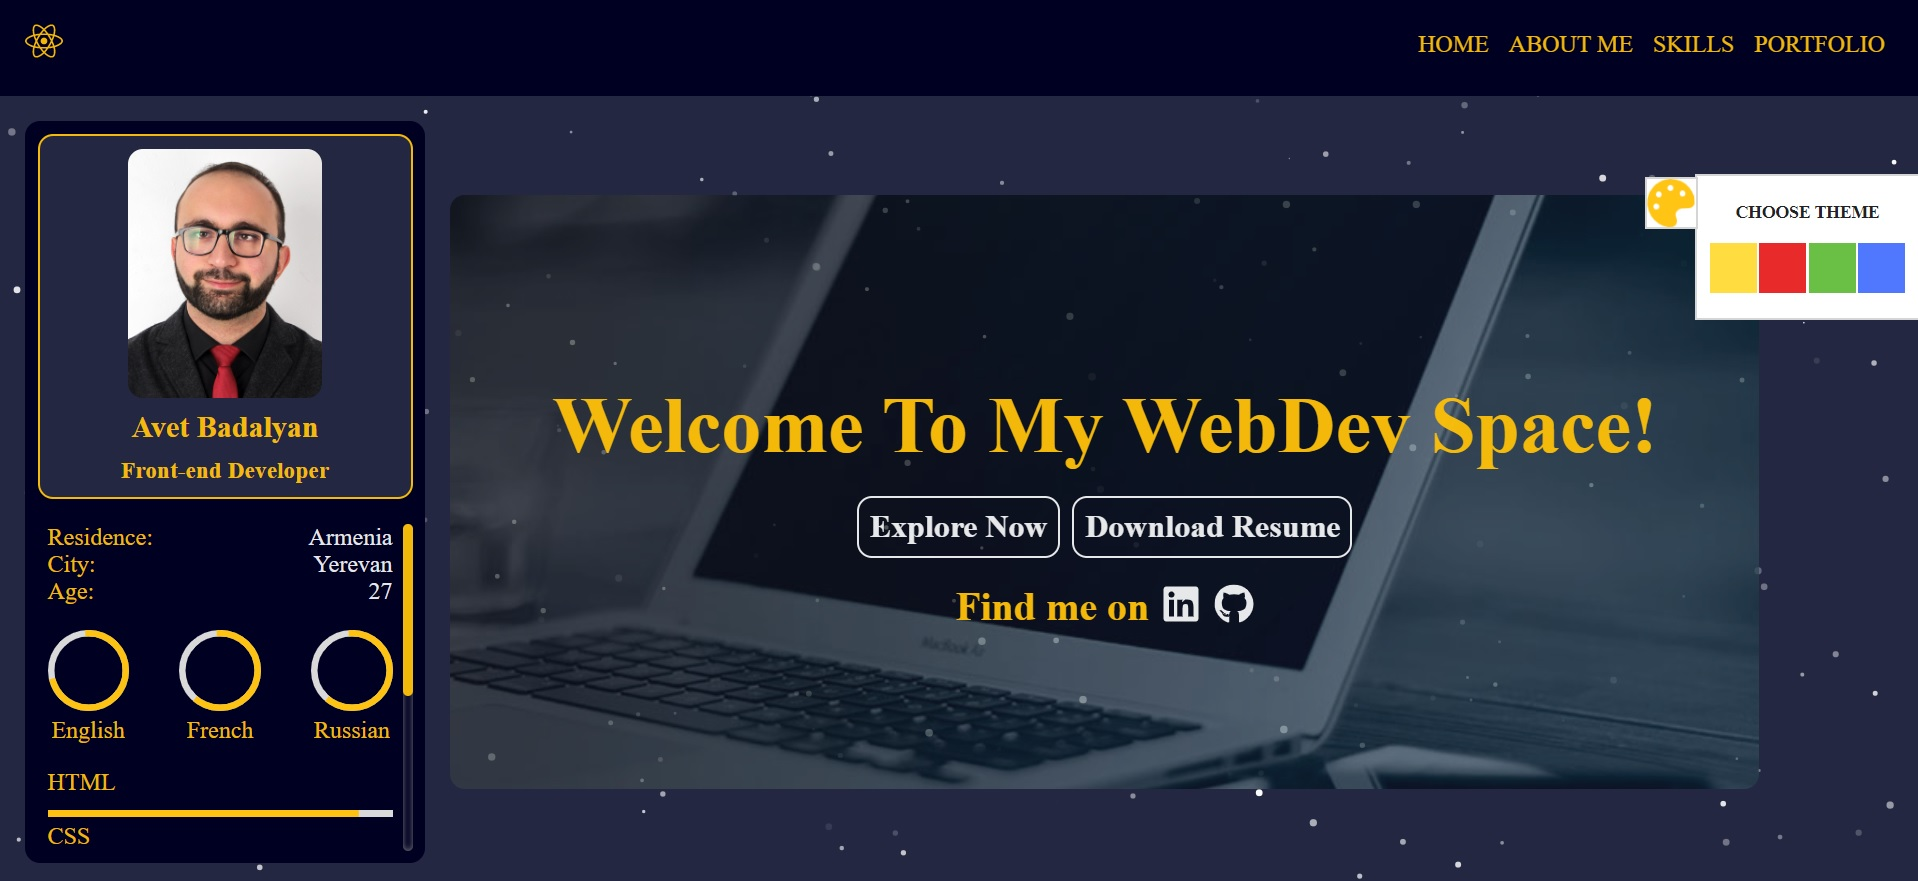
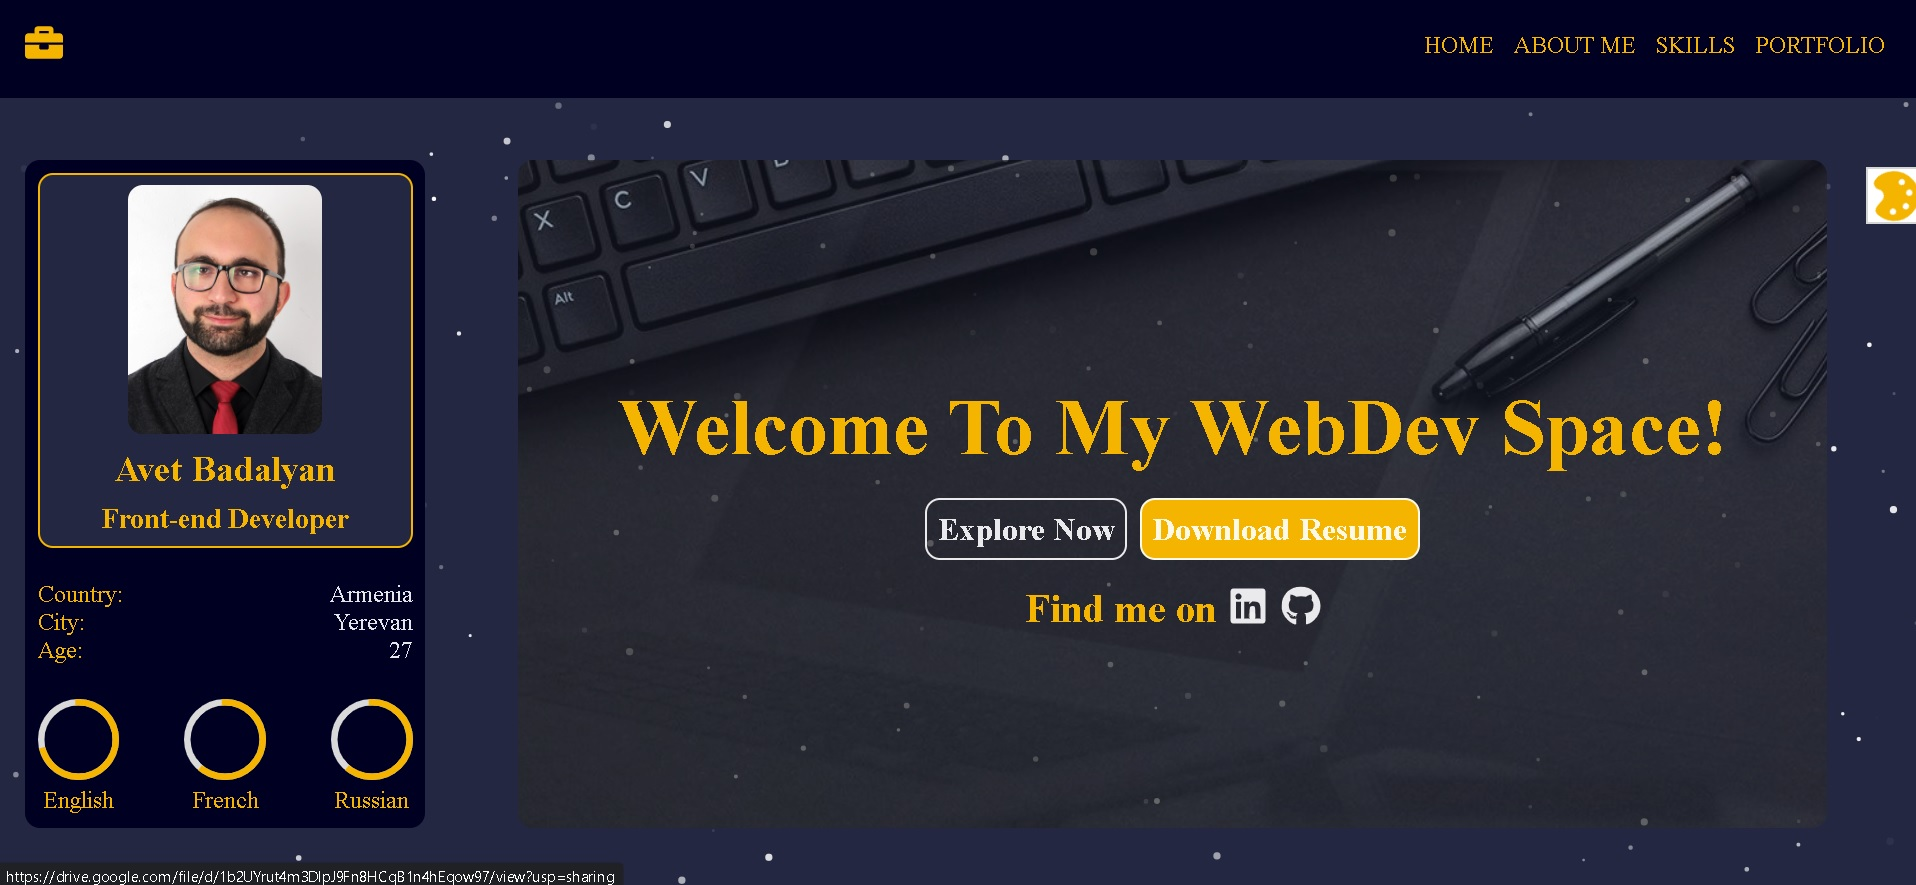
feat: style update in skills

diff --git a/src/Pages/Skills/Skills.styles.scss b/src/Pages/Skills/Skills.styles.scss
@@ -2,13 +2,13 @@
   .skills-content-wrapper {
     display: flex;
     flex-direction: column;
-    padding: 12px 20px;
+    padding: 10px 20px;
     gap: 12px;
 
     .skills-content-wrapper-inner-content {
       display: flex;
       flex-direction: column;
-      gap: 12px;
+      gap: 10px;
       padding: 4px 0;
 
       .skills-content-wrapper-logos {

diff --git a/src/Components/theme/Theme.scss b/src/Components/theme/Theme.scss
@@ -1,7 +1,7 @@
 .theme-wrapper {
   width: 180px;
   position: fixed;
-  top: 19%;
+  top: 20%;
   right: -180px;
   z-index: 1000;
   background: white;
